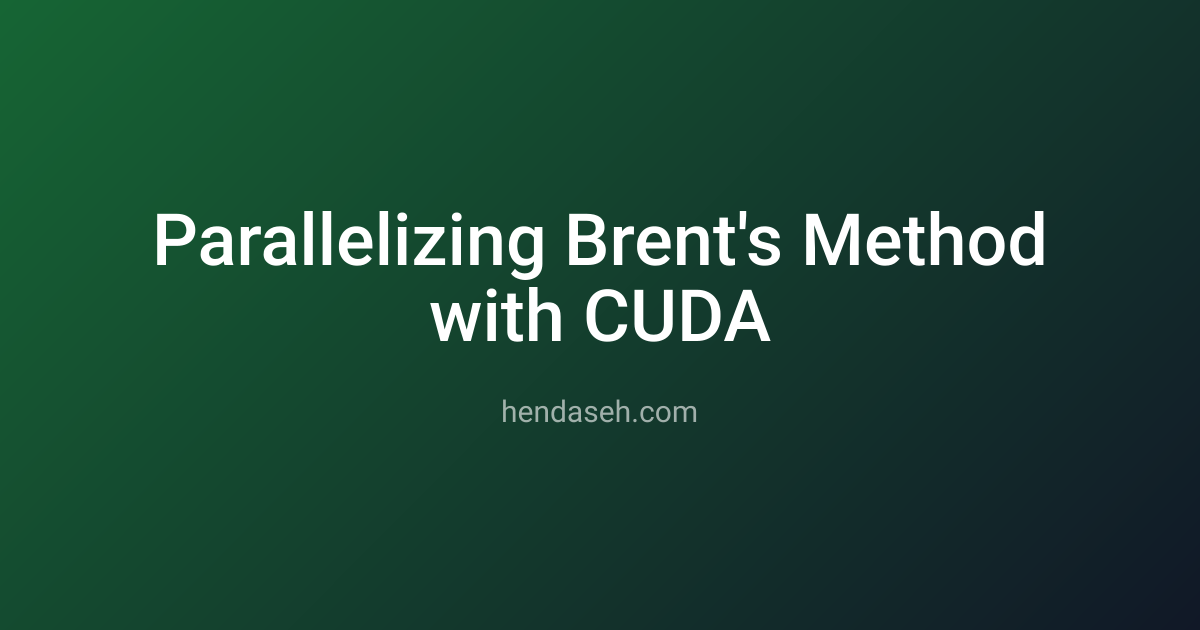
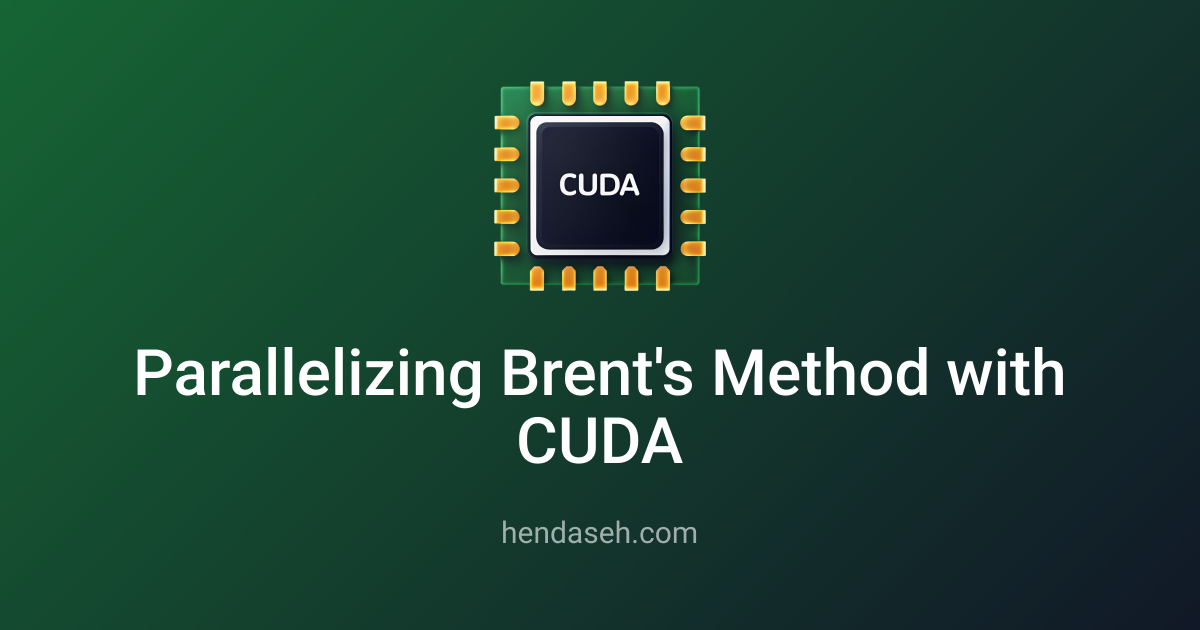
feat: project OG cards render the engine artwork
Showcase-tier OG cards (brent-cuda, collision-avoidance-radar) now render
the project's trimmed transparent artwork above the title, on the same
gradient the card composition already uses — matching the catalog's visual
language instead of title-only cards. site/nahtadi cards are untouched and
stay byte-identical.

Changed region(s): [[0.0925, 0.1206, 0.8942, 0.754], [0.4008, 0.8143, 0.5858, 0.8746]]

diff --git a/src/lib/assetTemplates.tsx b/src/lib/assetTemplates.tsx
@@ -51,10 +51,23 @@ async function loadNahtadiMark(): Promise<Mark> {
   return { src: toDataUri(data), width: info.width, height: info.height };
 }
 
-/** Load both marks once. Every card in the set is rendered in a single process. */
+/** Load both fixed marks once. Every card in the set is rendered in a single process. */
 export async function loadMarks(): Promise<{ hendaseh: Mark; nahtadi: Mark }> {
   const [hendaseh, nahtadi] = await Promise.all([loadHendasehMark(), loadNahtadiMark()]);
   return { hendaseh, nahtadi };
+}
+
+/**
+ * A project's OG card icon is its transparent engine artwork
+ * (assets/artwork/<id>.png) — the subject on full transparency, same source
+ * the compositor (scripts/lib/compose.ts) uses. Trim it the same way: the
+ * artwork carries large, inconsistent transparent margins, so an untrimmed
+ * subject renders at unpredictable sizes on the card.
+ */
+export async function loadProjectArtwork(projectId: string): Promise<Mark> {
+  const artworkPath = path.join(process.cwd(), 'assets', 'artwork', `${projectId}.png`);
+  const { data, info } = await sharp(artworkPath).trim().png().toBuffer({ resolveWithObject: true });
+  return { src: toDataUri(data), width: info.width, height: info.height };
 }
 
 /** Scale a mark's intrinsic size to a target box, preserving aspect ratio. */

diff --git a/scripts/generate-og.tsx b/scripts/generate-og.tsx
@@ -12,7 +12,7 @@ import { mkdir, readFile, writeFile } from 'node:fs/promises';
 import path from 'node:path';
 import { getOgCard } from '../src/lib/ogCards';
 import { getShowcaseProjects } from '../src/lib/projects';
-import { CardTemplate, loadMarks } from '../src/lib/assetTemplates';
+import { CardTemplate, loadMarks, loadProjectArtwork, type Mark } from '../src/lib/assetTemplates';
 
 const FONT_DIR = 'src/fonts/roboto';
 const OUT = 'public/og';
@@ -28,7 +28,12 @@ async function main() {
   const ids = ['site', 'nahtadi', ...getShowcaseProjects().map((p) => p.id)];
   for (const id of ids) {
     const card = getOgCard(id);
-    const mark = card.icon ? marks[card.icon.src === 'nahtadi' ? 'nahtadi' : 'hendaseh'] : null;
+    let mark: Mark | null = null;
+    if (card.icon) {
+      if (card.icon.src === 'nahtadi') mark = marks.nahtadi;
+      else if (card.icon.src === 'hendaseh-mark') mark = marks.hendaseh;
+      else mark = await loadProjectArtwork(card.icon.src.project);
+    }
     const svg = await satori(<CardTemplate card={card} mark={mark} />, {
       width: 1200,
       height: 630,

diff --git a/src/lib/ogCards.ts b/src/lib/ogCards.ts
@@ -10,8 +10,12 @@ type OgBackground =
   | { kind: 'gradient'; from: string; to: string };
 
 interface OgIcon {
-  /** which public asset the template should render */
-  src: 'hendaseh-mark' | 'nahtadi';
+  /**
+   * which mark the template should render — the two fixed marks, or a
+   * project's own transparent artwork (assets/artwork/<id>.png), identified
+   * by `{ project: id }` so the loader can resolve it per-card.
+   */
+  src: 'hendaseh-mark' | 'nahtadi' | { project: string };
   /** wrap the mark in a white rounded tile (needed for the transparent Nahtadi arch) */
   tile: boolean;
 }
@@ -72,8 +76,9 @@ export function getOgCard(card: string): OgCard {
       const { from, to } = getProjectGradientStops(project.id);
       return {
         background: { kind: 'gradient', from, to },
+        icon: { src: { project: project.id }, tile: false },
         name: project.title,
-        nameSize: 72,
+        nameSize: 64,
         footer: 'hendaseh.com',
         textColor: WHITE,
       };
